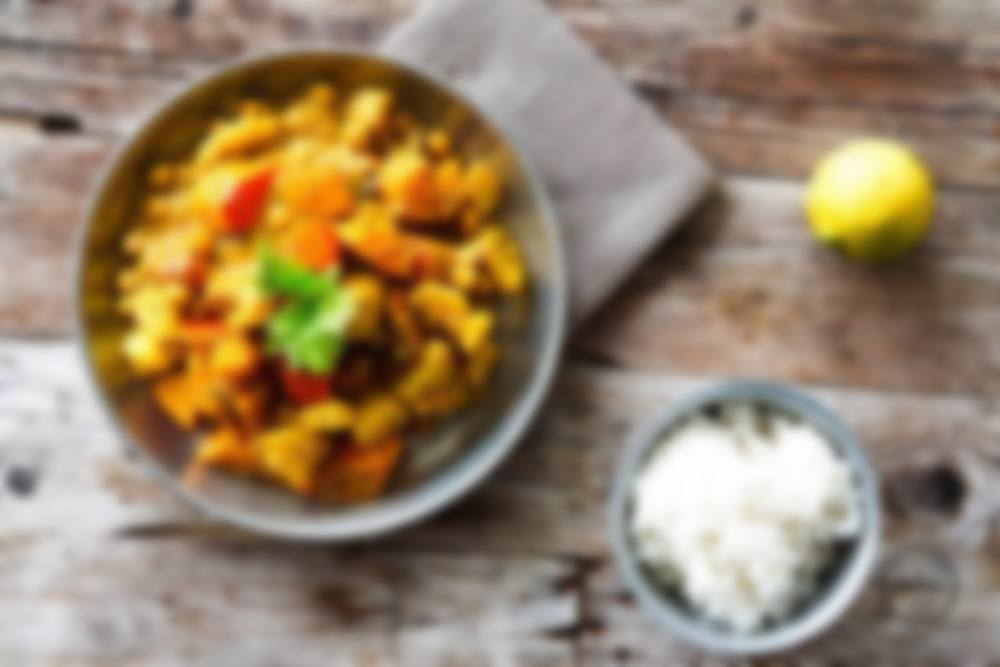
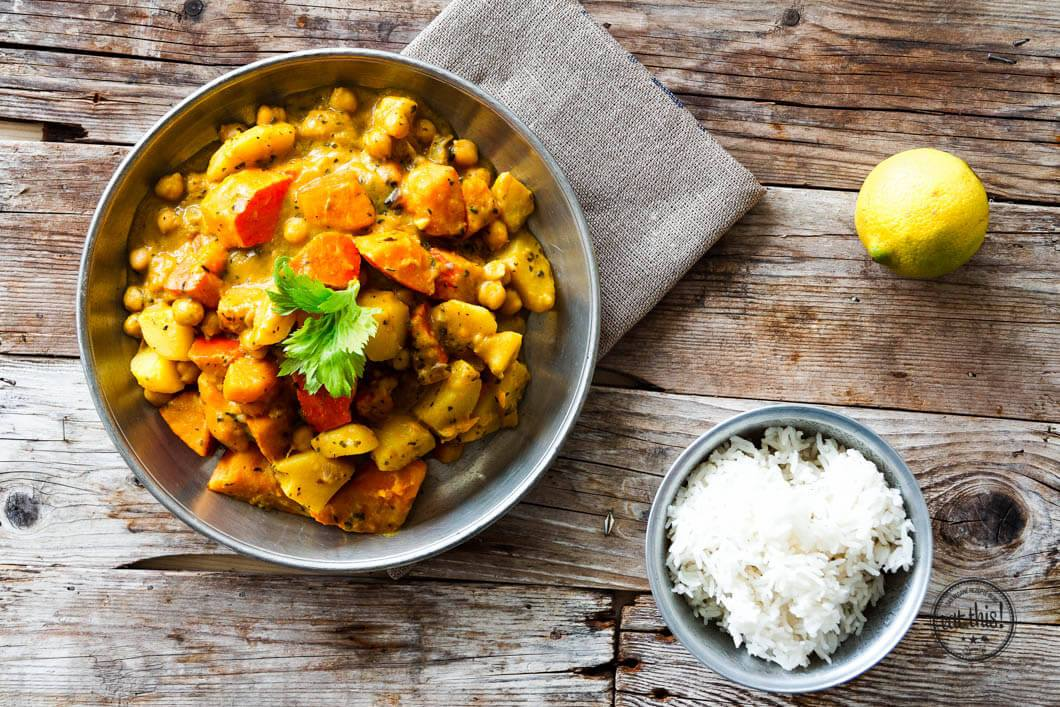
Better background blur

diff --git a/resources/public/style.css b/resources/public/style.css
@@ -5,8 +5,6 @@
 html {
     font-family: sans-serif;
     color: black;
-    background-size: cover;
-    background-image: url(background.jpg);
 }
 
 header {
@@ -35,6 +33,21 @@ header h1 {
 body {
     max-width: 1000px;
     margin: 0 auto;
+}
+
+/* Background */
+body:before {
+    content: "";
+    position: fixed;
+    left: 0;
+    right: 0;
+    z-index: -1;
+    height: 100%;
+    width: 100%;
+    display: block;
+    background-size: cover;
+    background-image: url(background.jpg);
+    filter: blur(13px);
 }
 
 section {
